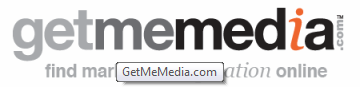
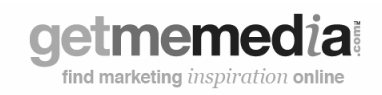
fix dashboard-img and break clients-block

diff --git a/stylesheets/main.css b/stylesheets/main.css
@@ -1,1 +1,1 @@
-@font-face{font-family:raleway;src:url(../fonts/Raleway-Regular.ttf)}@font-face{font-family:ralewayLight;src:url(../fonts/Raleway-Light.ttf)}@font-face{font-family:ralewayBold;src:url(../fonts/Raleway-Bold.ttf)}.raleway{font-family:raleway}.raleway-light{font-family:ralewayLight}.raleway-bold{font-family:ralewayBold}.white{color:white}.letter{color:white;font-size:20px;position:fixed;bottom:0;right:0;background-color:rgba(0,0,0,0.5);padding:10px;cursor:pointer;z-index:10}.heading-line{border-bottom:1px solid black;width:100px;margin-bottom:50px}.heading-line_white{border-bottom:1px solid white;width:100px;margin-bottom:50px}.dashboard{background-image:url(../img/dashboard__bg.png);padding-top:150px;padding-bottom:50px;background-size:cover}.dashboard__logo{margin-bottom:30px}.dashboard__button{padding:10px 40px;color:white;background-color:#00aeef;border:1px solid transparent;border-radius:3px;margin-bottom:200px}.dashboard__button:hover{background-color:#0094cb}@media (max-width:680px){.dashboard__button{margin-bottom:100px}}.dashboard__arrow{font-size:30px;cursor:pointer}.dashboard__arrow:hover{color:#b3b3b3}.login{background-color:#212121;padding:10px 0}.login__button{border:1px solid white;border-radius:3px;background-color:transparent;width:100%;padding:10px 0;color:white}@media (max-width:765px){.login__button{margin-bottom:20px}}.login__button-row{padding-top:10px}.login__button_blue{background-color:#00aeef;border-color:#00aeef}.login__button_blue:hover{background-color:#0094cb}@media (max-width:765px){.login__logo{display:none}}.work{padding-top:50px;padding-bottom:50px}.work__video{margin-bottom:20px}.work__button{border:1px solid #00aeef;border-radius:3px;background-color:#00aeef;padding:10px 40px;color:white}.work__line{border-bottom:1px solid black;position:relative;top:35px;left:170px;width:66%}@media (min-width:766px) and (max-width:1092px){.work__line{left:155px;width:65%}}@media (max-width:765px){.work__line{display:none}}.work__content{font-size:16px}.clients{background-image:url(../img/clients__bg.png);background-position:center;padding:50px 0;height:700px}@media (max-width:765px){.clients{height:1100px}}.clients__row{margin-bottom:50px}.clients__img{margin-bottom:50px}@media (max-width:480px){.clients__img{margin-bottom:25px}}.cases{padding:50px 0;background-color:white}.cases .col-sm-4{padding-left:0;padding-right:0}.cases__glyphicon{font-size:50px;margin-bottom:30px;color:#00aeef}.cases__heading{font-size:18px}.cases__content{font-size:16px}.cases__block{padding:70px 10px}@media (max-width:765px){.cases__block{padding:20px}}.cases .border_right{border-right:1px solid #2e292a}@media (max-width:1319px){.cases .border_right{border:none}}.cases .border_left{border-left:1px solid #2e292a}@media (max-width:1319px){.cases .border_left{border:none}}.cases .border_right-bottom{border-right:1px solid #2e292a;border-bottom:1px solid #2e292a}.cases .border_right-bottom::after{width:12px;height:12px;border-radius:100%;background-color:#00aeef;content:" ";position:absolute;bottom:-5px;right:-5px;z-index:1}@media (max-width:1319px){.cases .border_right-bottom::after{display:none}}@media (max-width:1319px){.cases .border_right-bottom{border:none}}.cases .border_bottom{border-bottom:1px solid #2e292a}@media (max-width:1319px){.cases .border_bottom{border:none}}.cases .border_left-bottom{border-left:1px solid #2e292a;border-bottom:1px solid #2e292a}.cases .border_left-bottom::after{width:12px;height:12px;border-radius:100%;background-color:#00aeef;content:" ";position:absolute;bottom:-5px;left:-5px;z-index:1}@media (max-width:1319px){.cases .border_left-bottom::after{display:none}}@media (max-width:1319px){.cases .border_left-bottom{border:none}}.location{padding:50px 0;background-image:url(../img/location__bg.png);background-size:cover}.location__row{padding:100px 0}.location__pin{margin-bottom:25px}.location__heading{font-size:30px}.location__numbers{font-size:50px;line-height:.8}@media (max-width:765px){.location__numbers{margin-bottom:50px}}.case-studies{margin-top:-121px}.case-studies__row{position:relative;top:150px;z-index:10}.case-studies .slick-case{color:white;margin-bottom:50px}.case-studies .slick-case .bg-overlay{background-color:rgba(0,0,0,0.5);position:absolute;top:0;bottom:0;left:0;right:0}.case-studies .slick-case__content{font-size:16px}.case-studies .slick-case__bg_football{padding:300px 0;background:url(../img/football.jpg) top;background-size:cover;position:relative}@media (max-width:765px){.case-studies .slick-case__bg_football{padding:150px 0}}.case-studies .slick-case__bg_minicabster{padding:148px 0;background:url(../img/minicabster__bg.jpg) center;background-size:cover;position:relative}@media (max-width:765px){.case-studies .slick-case__bg_minicabster{padding-top:75px}}.case-studies .slick-case__bg_holiday{padding:266px 0;background:url(../img/holiday.jpg) center;background-size:cover;position:relative}@media (max-width:765px){.case-studies .slick-case__bg_holiday{padding:150px 0}}.case-studies .slick-case__bg_mirror{padding:265px 0;background:url(../img/mirror.jpg) center;background-size:cover;position:relative}@media (max-width:765px){.case-studies .slick-case__bg_mirror{padding:150px 0}}.pricing{padding:50px 0;background-image:url(../img/pricing__bg.png);background-size:cover}.pricing .card__header{padding:20px 0;background-color:#00aeef}.pricing .card__body{padding:30px 0;background-color:#ededed}@media (max-width:765px){.pricing .card__body{margin-bottom:20px}}.pricing .card__body_with-border{padding:30px 0;background-color:#ededed;border-bottom:2px solid white}.pricing .card__body_with-border .card__heading{color:#212121}.pricing .card__body .card__heading{color:#212121}.pricing .card__heading{color:#004c69;font-size:20px}.pricing .card__heading_big{color:white;font-size:50px;line-height:.8}.pricing .card__heading_small{color:white;font-size:16px}.press{padding:50px 0;background-color:white}.press__img{margin-bottom:30px}footer{background-color:#373a3e;color:white;padding:20px 0}footer .footer__link{color:white}
+@font-face{font-family:raleway;src:url(../fonts/Raleway-Regular.ttf)}@font-face{font-family:ralewayLight;src:url(../fonts/Raleway-Light.ttf)}@font-face{font-family:ralewayBold;src:url(../fonts/Raleway-Bold.ttf)}.raleway{font-family:raleway}.raleway-light{font-family:ralewayLight}.raleway-bold{font-family:ralewayBold}.white{color:white}.letter{color:white;font-size:20px;position:fixed;bottom:0;right:0;background-color:rgba(0,0,0,0.5);padding:10px;cursor:pointer;z-index:10}.heading-line{border-bottom:1px solid black;width:100px;margin-bottom:50px}.heading-line_white{border-bottom:1px solid white;width:100px;margin-bottom:50px}.dashboard{background-image:url(../img/dashboard__bg.png);background-position:center;padding-top:150px;padding-bottom:50px;background-size:cover;position:relative}.dashboard .bg-overlay{background-color:rgba(0,0,0,0.5);position:absolute;top:0;bottom:0;left:0;right:0}.dashboard__logo{margin-bottom:30px}.dashboard__button{padding:10px 40px;color:white;background-color:#00aeef;border:1px solid transparent;border-radius:3px;margin-bottom:200px}.dashboard__button:hover{background-color:#0094cb}@media (max-width:680px){.dashboard__button{margin-bottom:100px}}.dashboard__arrow{font-size:30px;cursor:pointer}.dashboard__arrow:hover{color:#b3b3b3}.login{background-color:#212121;padding:10px 0}.login__button{border:1px solid white;border-radius:3px;background-color:transparent;width:100%;padding:10px 0;color:white}@media (max-width:765px){.login__button{margin-bottom:20px}}.login__button-row{padding-top:10px}.login__button_blue{background-color:#00aeef;border-color:#00aeef}.login__button_blue:hover{background-color:#0094cb}@media (max-width:765px){.login__logo{display:none}}.work{padding-top:50px;padding-bottom:50px}.work__video{margin-bottom:20px}.work__button{border:1px solid #00aeef;border-radius:3px;background-color:#00aeef;padding:10px 40px;color:white}.work__line{border-bottom:1px solid black;position:relative;top:35px;left:170px;width:66%}@media (min-width:766px) and (max-width:1092px){.work__line{left:155px;width:65%}}@media (max-width:765px){.work__line{display:none}}.work__content{font-size:16px}.clients{background-position:center;padding:50px 0}.clients__row{margin-bottom:50px;display:table}.clients__img{height:100%;display:table-cell}@media (max-width:480px){.clients__img{margin-bottom:25px}}.clients__img img{max-width:100%;max-height:100%}.cases{padding:50px 0;background-color:white}.cases .col-sm-4{padding-left:0;padding-right:0}.cases__glyphicon{font-size:50px;margin-bottom:30px;color:#00aeef}.cases__heading{font-size:18px}.cases__content{font-size:16px}.cases__block{padding:70px 10px}@media (max-width:765px){.cases__block{padding:20px}}.cases .border_right{border-right:1px solid #2e292a}@media (max-width:1319px){.cases .border_right{border:none}}.cases .border_left{border-left:1px solid #2e292a}@media (max-width:1319px){.cases .border_left{border:none}}.cases .border_right-bottom{border-right:1px solid #2e292a;border-bottom:1px solid #2e292a}.cases .border_right-bottom::after{width:12px;height:12px;border-radius:100%;background-color:#00aeef;content:" ";position:absolute;bottom:-5px;right:-5px;z-index:1}@media (max-width:1319px){.cases .border_right-bottom::after{display:none}}@media (max-width:1319px){.cases .border_right-bottom{border:none}}.cases .border_bottom{border-bottom:1px solid #2e292a}@media (max-width:1319px){.cases .border_bottom{border:none}}.cases .border_left-bottom{border-left:1px solid #2e292a;border-bottom:1px solid #2e292a}.cases .border_left-bottom::after{width:12px;height:12px;border-radius:100%;background-color:#00aeef;content:" ";position:absolute;bottom:-5px;left:-5px;z-index:1}@media (max-width:1319px){.cases .border_left-bottom::after{display:none}}@media (max-width:1319px){.cases .border_left-bottom{border:none}}.location{padding:50px 0;background-image:url(../img/location__bg.png);background-size:cover}.location__row{padding:100px 0}.location__pin{margin-bottom:25px}.location__heading{font-size:30px}.location__numbers{font-size:50px;line-height:.8}@media (max-width:765px){.location__numbers{margin-bottom:50px}}.case-studies{margin-top:-121px}.case-studies__row{position:relative;top:150px;z-index:10}.case-studies .slick-case{color:white;margin-bottom:50px}.case-studies .slick-case .bg-overlay{background-color:rgba(0,0,0,0.5);position:absolute;top:0;bottom:0;left:0;right:0}.case-studies .slick-case__content{font-size:16px}.case-studies .slick-case__bg_football{padding:300px 0;background:url(../img/football.jpg) top;background-size:cover;position:relative}@media (max-width:765px){.case-studies .slick-case__bg_football{padding:150px 0}}.case-studies .slick-case__bg_minicabster{padding:148px 0;background:url(../img/minicabster__bg.jpg) center;background-size:cover;position:relative}@media (max-width:765px){.case-studies .slick-case__bg_minicabster{padding-top:75px}}.case-studies .slick-case__bg_holiday{padding:266px 0;background:url(../img/holiday.jpg) center;background-size:cover;position:relative}@media (max-width:765px){.case-studies .slick-case__bg_holiday{padding:150px 0}}.case-studies .slick-case__bg_mirror{padding:265px 0;background:url(../img/mirror.jpg) center;background-size:cover;position:relative}@media (max-width:765px){.case-studies .slick-case__bg_mirror{padding:150px 0}}.pricing{padding:50px 0;background-image:url(../img/pricing__bg.png);background-size:cover}.pricing .card__header{padding:20px 0;background-color:#00aeef}.pricing .card__body{padding:30px 0;background-color:#ededed}@media (max-width:765px){.pricing .card__body{margin-bottom:20px}}.pricing .card__body_with-border{padding:30px 0;background-color:#ededed;border-bottom:2px solid white}.pricing .card__body_with-border .card__heading{color:#212121}.pricing .card__body .card__heading{color:#212121}.pricing .card__heading{color:#004c69;font-size:20px}.pricing .card__heading_big{color:white;font-size:50px;line-height:.8}.pricing .card__heading_small{color:white;font-size:16px}.press{padding:50px 0;background-color:white}.press__img{margin-bottom:30px}footer{background-color:#373a3e;color:white;padding:20px 0}footer .footer__link{color:white}

diff --git a/index.html b/index.html
@@ -43,6 +43,7 @@
 			<i data-toggle="modal" data-target="#myModal" class="glyphicon glyphicon-envelope"></i>
 		</div>
 		<div class="dashboard">
+			<div class="bg-overlay"></div>
 			<div class="container">
 				<div class="row">
 					<div class="col-xs-10 col-xs-offset-1 col-sm-8 col-sm-offset-2 col-md-6 col-md-offset-3">
@@ -129,79 +130,66 @@
 
 		<div class="clients">
 			<div class="container">
-				<div class="clients__row row">
-					<h1 class="text-center text-uppercase white"><span class="raleway-light">our</span><span class="raleway-bold"> clients</span></h1>
-					<div class="heading-line_white center-block"></div>
+				<div class="clients__row_heading row">
+					<h1 class="text-center text-uppercase"><span class="raleway-light">our</span><span class="raleway-bold"> clients</span></h1>
+					<div class="heading-line center-block"></div>
 				</div>
 
-				<div class="slick">
-					<div>
-						<div class="row">
-							<div class="col-sm-4">
-								<img src="img/clients/argos.png" class="clients__img img-responsive center-block">
-							</div>
-							<div class="col-sm-4">
-								<img src="img/clients/comic_relief_logo.jpeg" class="clients__img img-responsive center-block">
-							</div>
-							<div class="col-sm-4">
-								<img src="img/clients/virgin-trains.jpg" class="clients__img img-responsive center-block">
-							</div>
-						</div>
-						<div class="row">
-							<div class="col-sm-4">
-								<img src="img/clients/hassle-logo.png" class="clients__img img-responsive center-block">
-							</div>
-							<div class="col-sm-4">
-								<img src="img/clients/paddy-power-new-logo.jpg" class="clients__img img-responsive center-block">
-							</div>
-							<div class="col-sm-4">
-								<img src="img/clients/goaltime.png" class="clients__img img-responsive center-block">
-							</div>
-						</div>
+				<div class="clients__row row">
+					<div class="col-sm-2 clients__img ">
+						<img src="img/clients/argos.png" class="center-block">
 					</div>
-					<div>
-						<div class="row">
-							<div class="col-sm-4">
-								<img src="img/clients/Daily-Mirror-Logo.jpg" class="clients__img img-responsive center-block">
-							</div>
-							<div class="col-sm-4">
-								<img src="img/clients/NEW Bull Ring Markets Small.jpg" class="clients__img img-responsive center-block">
-							</div>
-							<div class="col-sm-4">
-								<img src="img/clients/wdytya_logo_trans.png" class="clients__img img-responsive center-block">
-							</div>
-						</div>
-						<div class="row">
-							<div class="col-sm-4">
-								<img src="img/clients/MCC-Logo.jpg" class="clients__img img-responsive center-block">
-							</div>
-							<div class="col-sm-4">
-								<img src="img/clients/police scotland.jpg" class="clients__img img-responsive center-block">
-							</div>
-							<div class="col-sm-4">
-								<img src="img/clients/live-nation-logo.jpg" class="clients__img img-responsive center-block">
-							</div>
-						</div>
+					<div class="col-sm-2 clients__img">
+						<img src="img/clients/comic_relief_logo.jpeg" class="center-block">
 					</div>
-					<div>
-						<div class="row">
-							<div class="col-sm-2 col-sm-offset-4">
-								<img src="img/clients/grandslam.png" class="clients__img img-responsive center-block">
-							</div>
-							<div class="col-sm-2">
-								<img src="img/clients/sfs.jpg" class="clients__img img-responsive center-block">
-							</div>
-						</div>
-						<div class="row">
-							<div class="col-sm-2 col-sm-offset-4">
-								<img src="img/clients/bmso.png" class="clients__img img-responsive center-block">
-							</div>
-							<div class="col-sm-2">
-								<img src="img/clients/tiger-tiger-logo-1347549166.jpg" class="clients__img img-responsive center-block">
-							</div>
-						</div>
+					<div class="col-sm-2 clients__img">
+						<img src="img/clients/virgin-trains.jpg" class="center-block">
+					</div>
+					<div class="col-sm-2 clients__img">
+						<img src="img/clients/hassle-logo.png" class="center-block">
+					</div>
+					<div class="col-sm-2 clients__img">
+						<img src="img/clients/paddy-power-new-logo.jpg" class="center-block">
+					</div>
+					<div class="col-sm-2 clients__img">
+						<img src="img/clients/goaltime.png" class="center-block">
 					</div>
 				</div>
+
+				<!-- <div class="clients__row row">
+					<div class="col-sm-2">
+						<img src="img/clients/Daily-Mirror-Logo.jpg" class="clients__img center-block">
+					</div>
+					<div class="col-sm-2">
+						<img src="img/clients/NEW Bull Ring Markets Small.jpg" class="clients__img center-block">
+					</div>
+					<div class="col-sm-2">
+						<img src="img/clients/wdytya_logo_trans.png" class="clients__img center-block">
+					</div>
+					<div class="col-sm-2">
+						<img src="img/clients/MCC-Logo.jpg" class="clients__img center-block">
+					</div>
+					<div class="col-sm-2">
+						<img src="img/clients/police scotland.jpg" class="clients__img center-block">
+					</div>
+					<div class="col-sm-2">
+						<img src="img/clients/live-nation-logo.jpg" class="clients__img center-block">
+					</div>
+				</div>
+				<div class="clients__row row">
+					<div class="col-sm-3">
+						<img src="img/clients/grandslam.png" class="clients__img img-responsive center-block">
+					</div>
+					<div class="col-sm-3">
+						<img src="img/clients/sfs.jpg" class="clients__img img-responsive center-block">
+					</div>
+					<div class="col-sm-3">
+						<img src="img/clients/bmso.png" class="clients__img img-responsive center-block">
+					</div>
+					<div class="col-sm-3">
+						<img src="img/clients/tiger-tiger-logo-1347549166.jpg" class="clients__img img-responsive center-block">
+					</div>
+				</div> -->
 			</div>
 		</div>
 

diff --git a/stylesheets/main.less b/stylesheets/main.less
@@ -59,9 +59,20 @@
 
 .dashboard {
 	background-image: url(../img/dashboard__bg.png);
+	background-position: center;
 	padding-top: 150px;
 	padding-bottom: 50px;
 	background-size: cover;
+	position: relative;
+
+	.bg-overlay {
+		background-color: rgba(0, 0, 0, 0.5);
+		position: absolute;
+		top: 0;
+		bottom: 0;
+		left: 0;
+		right: 0;
+	}
 
 	&__logo {
 		margin-bottom: 30px;
@@ -170,24 +181,23 @@
 }
 
 .clients {
-	background-image: url(../img/clients__bg.png);
 	background-position: center;
 	padding: 50px 0;
-	height: 700px;
-
-	@media (max-width: 765px) {
-		height: 1100px;
-	}
 
 	&__row {
 		margin-bottom: 50px;
+		display: table;
 	}
 
 	&__img {
-		margin-bottom: 50px;
-
+		height: 100%;
+		display: table-cell;
 		@media (max-width: 480px) {
 			margin-bottom: 25px;
+		}
+		img {
+			max-width: 100%;
+			max-height: 100%;
 		}
 	}
 }
